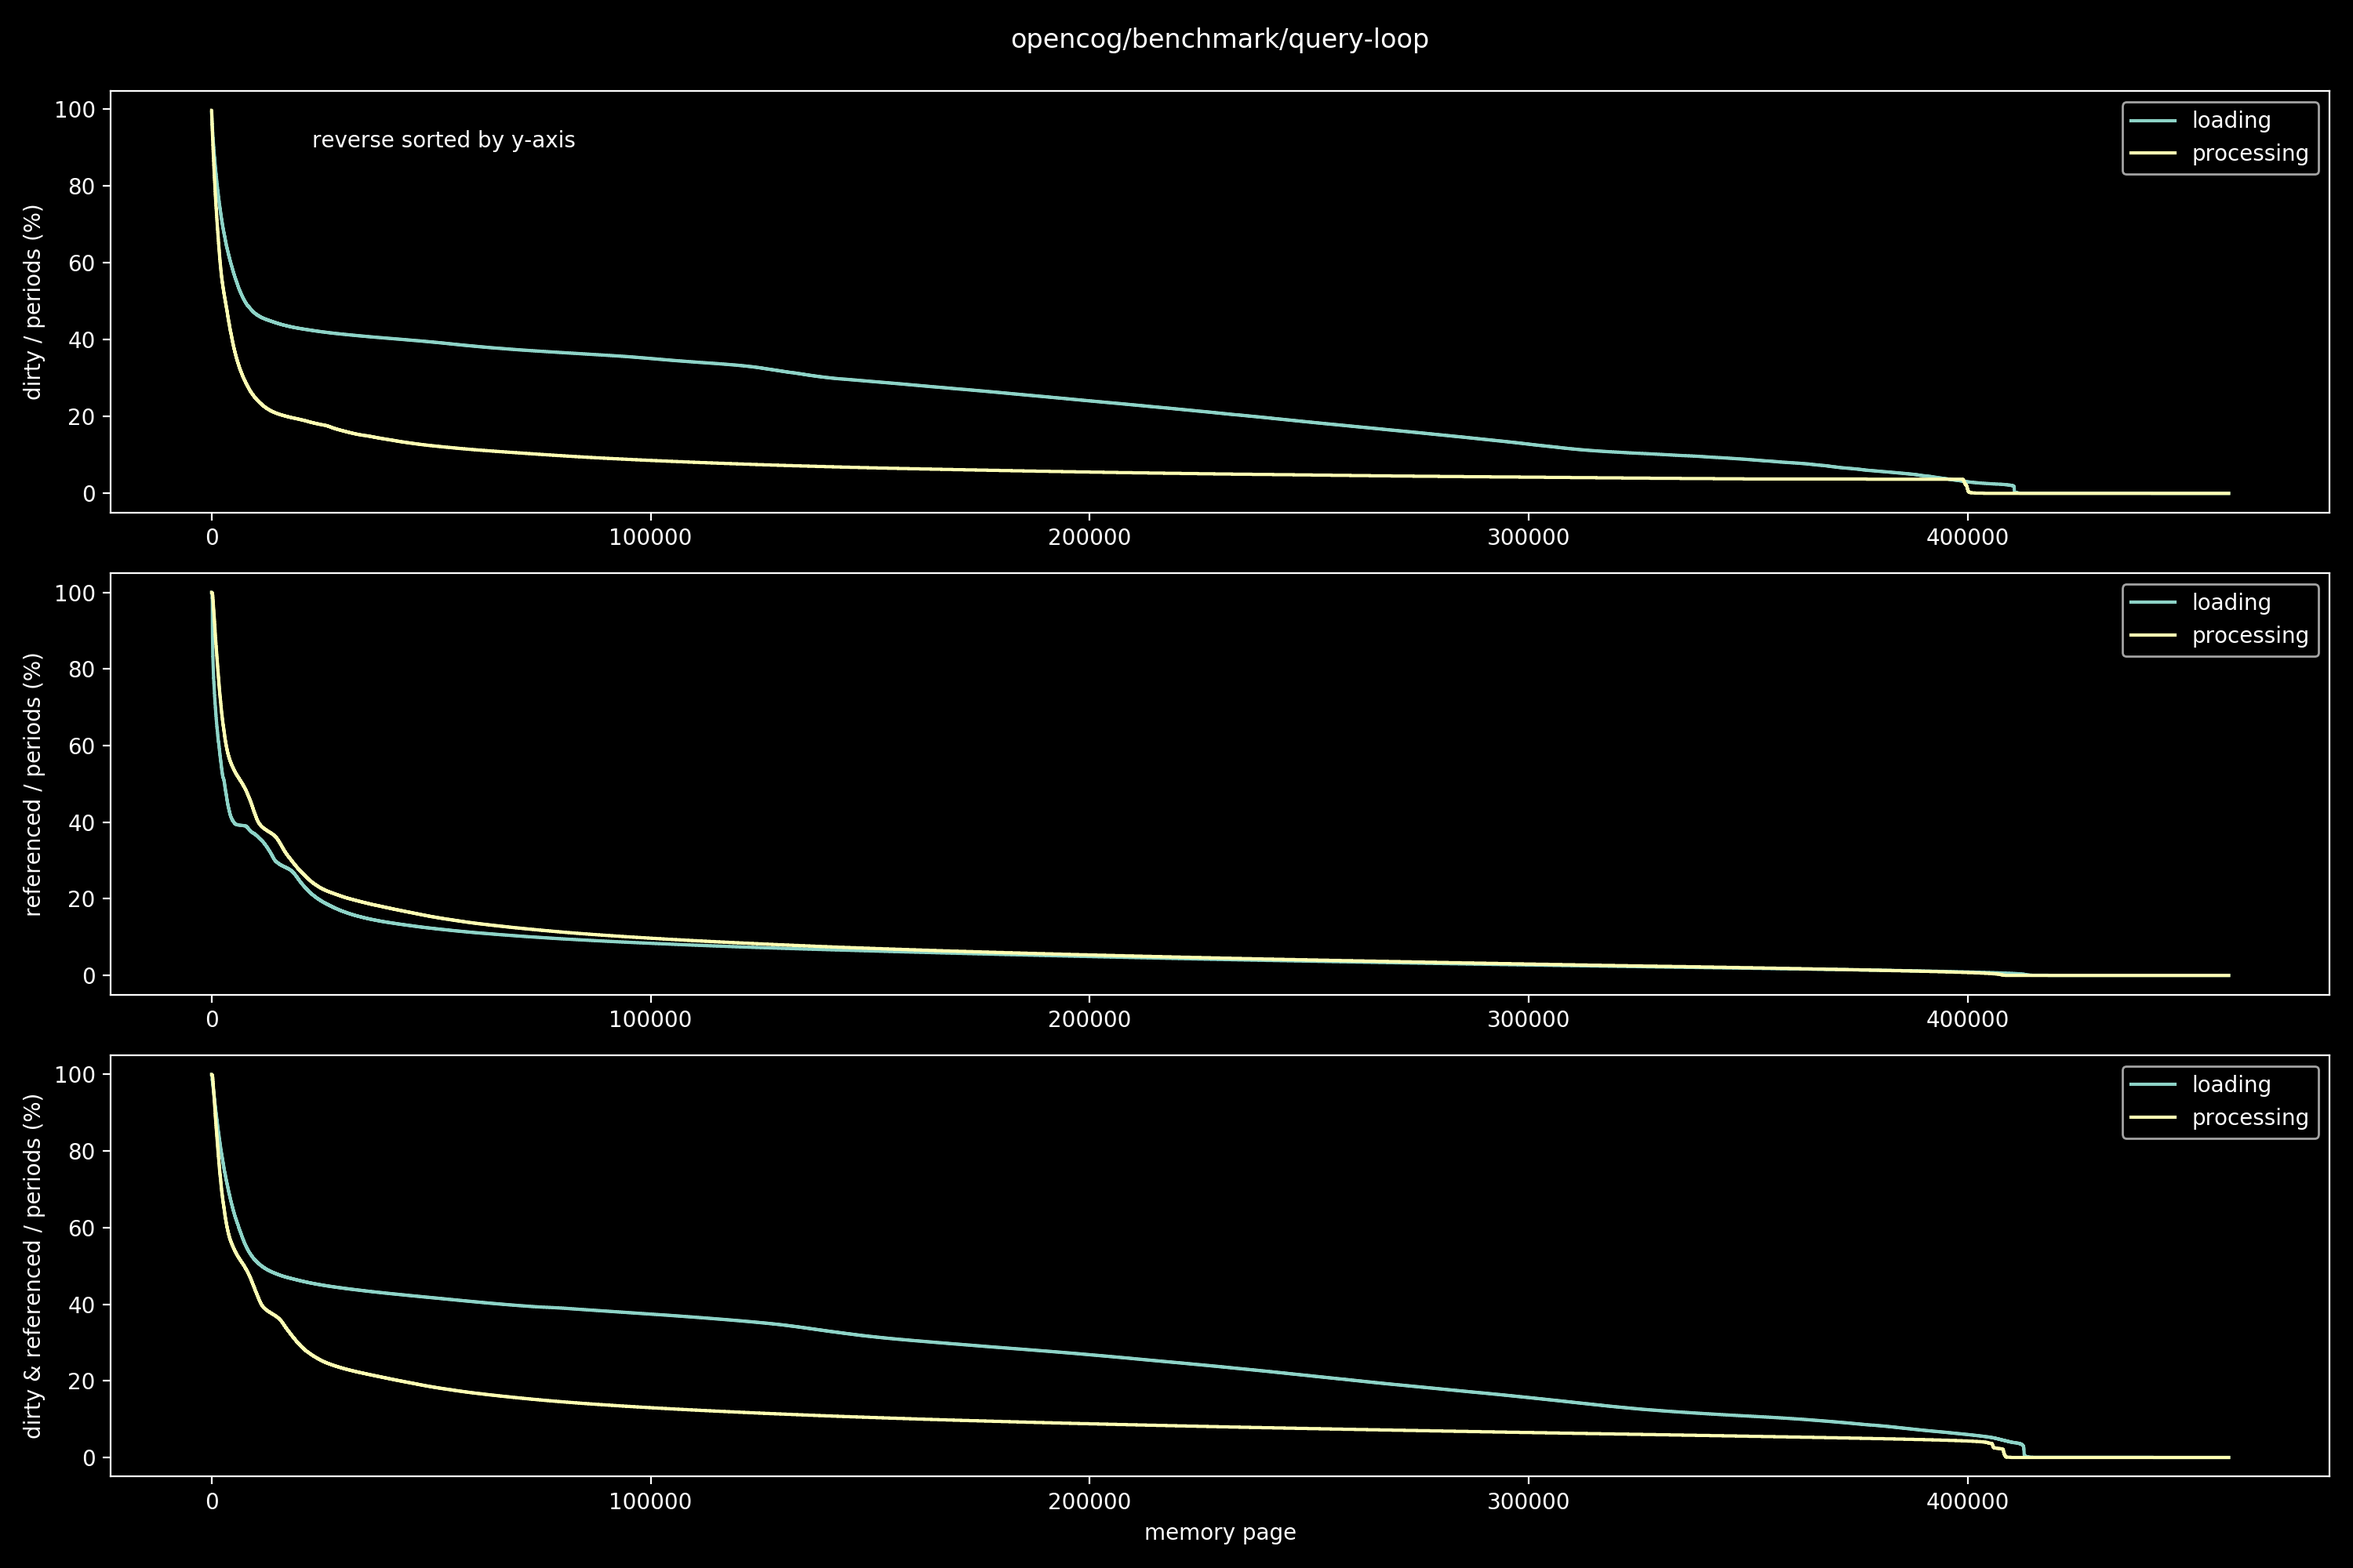
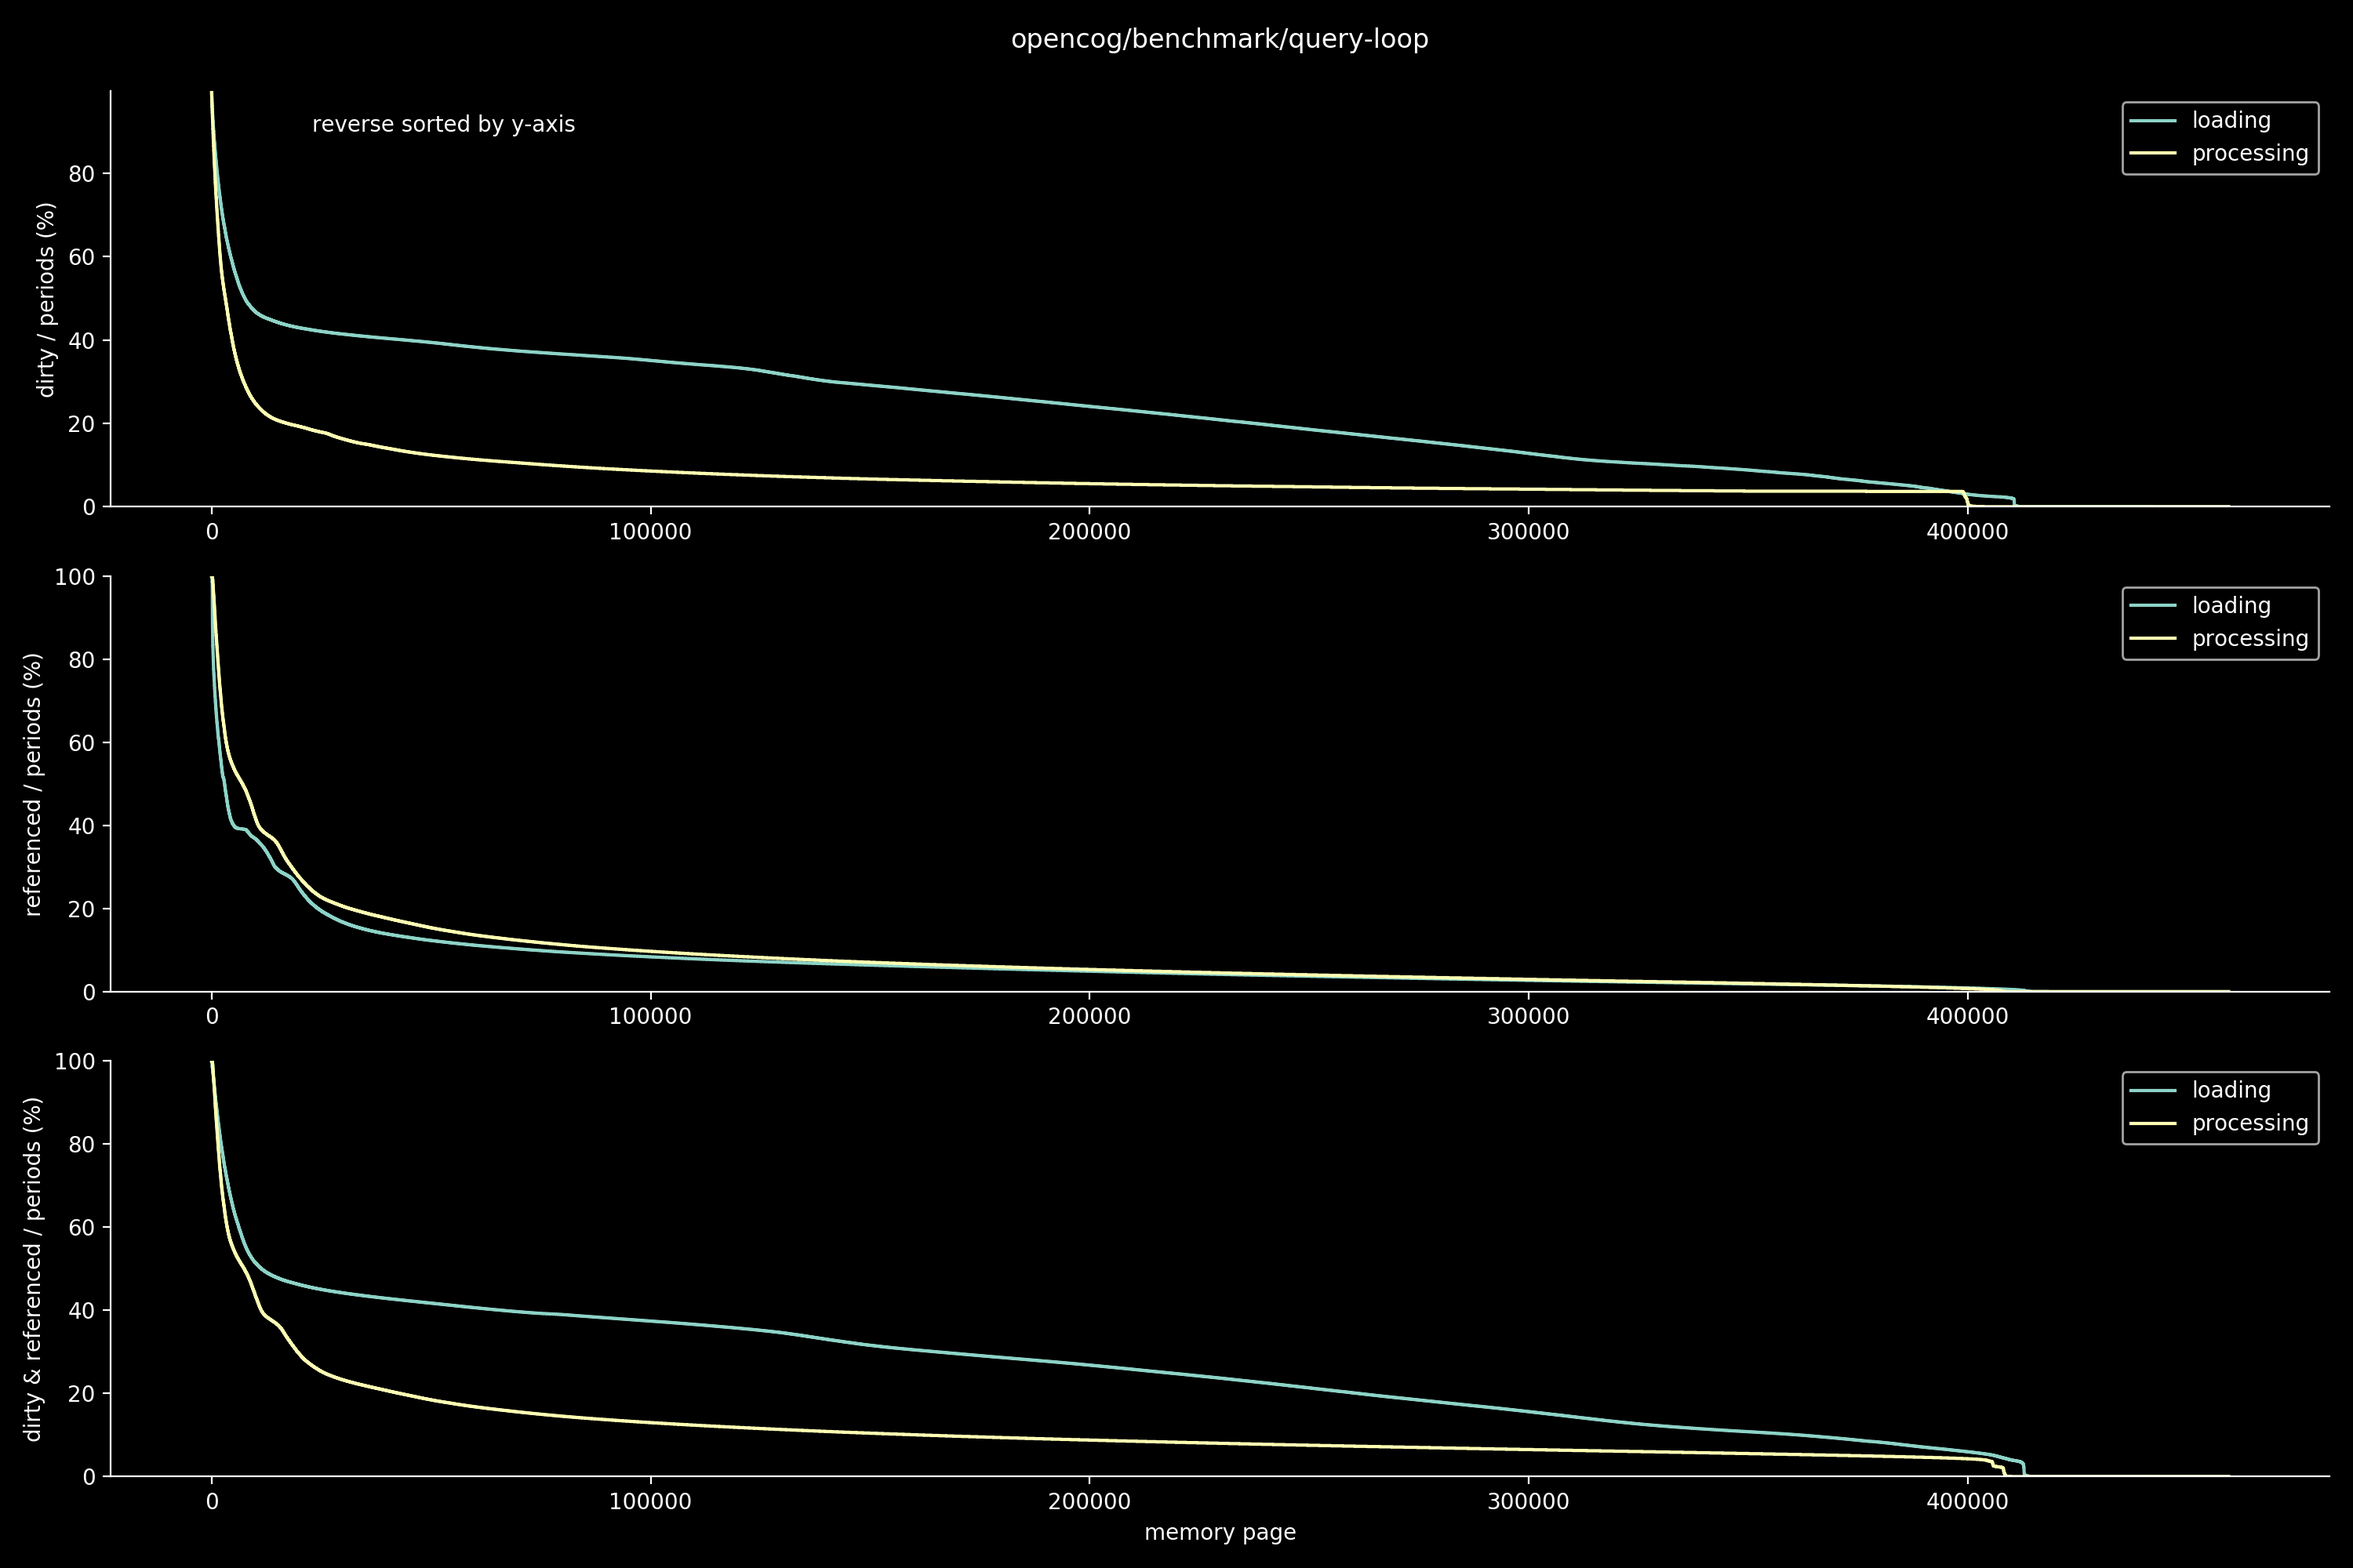
graph tweaks

diff --git a/mmapped-atomspace/vm-page-heatmap-graphs.py b/mmapped-atomspace/vm-page-heatmap-graphs.py
@@ -56,6 +56,11 @@ with EventLogFile(input_filename, 'r') as evlogf:
         pr = evlogf.read()
         if not pr: break
         samples.append(pr)
+        if 0: # skip some samples for quick tests
+            for _ in range(30):
+                pr = evlogf.read()
+                if not pr: break
+                if pr.marker: samples.append(pr)
 print('len(samples):', len(samples))
 title_prefix = metadata['experiment_name'] + '\n'
 ##
@@ -156,13 +161,16 @@ for s in samples:
 tlast = s.t
 print('markers:', markers)
 ##
+def hide_edges(ax, spines):
+    for sp in spines: ax.spines[sp].set_visible(False)
+
 plt.figure(figsize=(15,10))
 for isubplt, (attr, label) in enumerate([
     ('page_dirty_cnt',          'dirty'),
     ('page_accessed_cnt',       'referenced'),
     ('page_dirty_accessed_cnt', 'dirty & referenced'),
 ]):
-    plt.subplot(3,1,isubplt+1)
+    ax = plt.subplot(3,1,isubplt+1)
     if isubplt == 0: plt.title(title_prefix)
     for stage, (sidx_start, sidx_end) in [
         ('loading',    (0, len(samples))),
@@ -176,6 +184,8 @@ for isubplt, (attr, label) in enumerate([
     if isubplt == 0: plt.text(len(psorted)*0.05, 90, 'reverse sorted by y-axis')
     if isubplt == 2: plt.xlabel('memory page')
     plt.legend()
+    hide_edges(ax, ['right', 'top'])
+    plt.margins(y=0)
 plt.tight_layout()
 savefig(plt, 'accumulated_page_counts.png')
 if INTERACTIVE: plt.show()
@@ -196,30 +206,39 @@ if INTERACTIVE: save_pickled(page_accessed, 'page_accessed.pickle')
 ##
 if INTERACTIVE: page_accessed = load_pickled('page_accessed.pickle')
 ##
+def draw_markers(markers, y):
+    for m, x in markers:
+        plt.vlines(
+            x, 0, y,
+            label=m, colors='r', linestyle='dashed')
+        plt.text(x, y, m, color='r')
+
 plt.figure(figsize=(15,10))
-plt.subplot(2,1,1)
+
+ax = plt.subplot(2,1,1)
 plt.imshow(page_accessed.transpose()/scaledown*100, origin='lower', aspect='auto', cmap=plt.get_cmap('tab20b'))
 plt.title(title_prefix+'VM page region heat map')
 plt.xlabel('time (s)')
 plt.ylabel('page region')
-xticks = [(i, '%.0f' % samples[i].t) for i in range(0, len(samples), 100)]
+xticks = [(i, '%.0f' % samples[i].t) for i in range(0, len(samples), len(samples)//20)]
 plt.xticks(*zip(*xticks))
-nmark = len(markers)
-for m, t in markers.items():
-    x = len(samples)*t/tlast
-    y = page_accessed.shape[1]
-    plt.vlines(
-        x, 0, y,
-        label=m, colors='r', linestyle='dashed')
-    plt.text(x, y, m, color='r')
-plt.colorbar(label='page region referenced (%)')
-plt.subplot(2,1,2)
+draw_markers([(m, len(samples)*t/tlast) for m, t in markers.items()], page_accessed.shape[1])
+hide_edges(ax, ['right', 'left', 'top', 'bottom'])
+plt.colorbar(label='page region referenced (%)', fraction=0.05, pad=0.02)
+
+ax = plt.subplot(2,1,2)
 MB = 1024**2
-plt.plot(*zip(*[(s.t, s.accessed_size/MB) for s in samples]), label='referenced size', linewidth=1)
-plt.plot(*zip(*[(s.t, s.dirty_size/MB) for s in samples]), label='dirty size', linewidth=1)
+plts = [
+    plt.plot(*zip(*[(s.t, s.accessed_size/MB) for s in samples]), label='referenced size', linewidth=0.7)[0],
+    plt.plot(*zip(*[(s.t, s.dirty_size/MB) for s in samples]), label='dirty size', linewidth=0.7)[0],
+]
 plt.xlabel('time (s)')
 plt.ylabel('(MB)')
-plt.legend()
+draw_markers(markers.items(), y=0.95*max(max(s.accessed_size, s.dirty_size) for s in samples)/MB)
+plt.legend(plts, [p.get_label() for p in plts])
+plt.margins(0)
+hide_edges(ax, ['right', 'top'])
+
 plt.tight_layout()
 savefig(plt, 'page_region_referenced__sample_period.png')
 if INTERACTIVE: plt.show()
